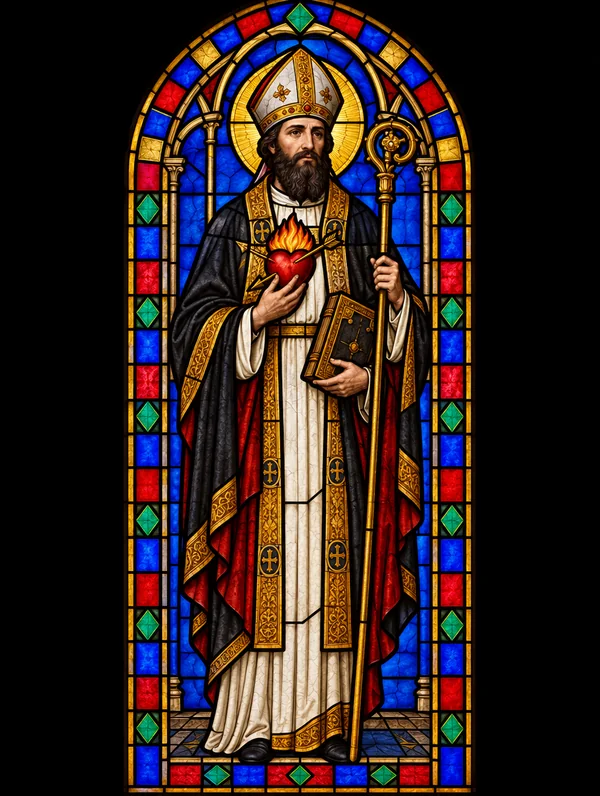
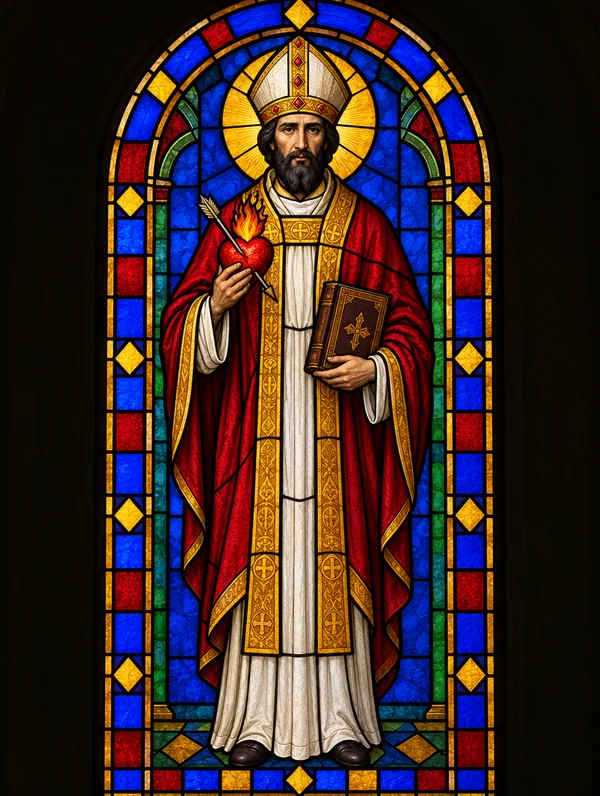
Três figuras refeitas: Agostinho e Ângela Merici com dois braços, Edith Stein com o rosto em cores
Agostinho e Ângela Merici tinham saído com três mãos; os prompts passam a
pedir exatamente dois braços e duas mãos. O rosto de Edith Stein estava
cinza como a foto de referência e foi recolorido.

O cache de imagens sobe para v2, para os aparelhos que já guardaram as
imagens receberem estas três e o São Longuinho refeito em 13/10/2026.

diff --git a/testes/offline.js b/testes/offline.js
@@ -65,7 +65,7 @@ const relata = (nome, prob) => { linhas.push(`${nome}: problemas: ${prob.length 
       }
       await roda(`document.querySelector("#foot button").click()`);
       if (!await ate(`return document.getElementById("foot").textContent.startsWith("Pronto")`, 120)) prob.push("não terminou de guardar: " + await rodape());
-      const [tem, total] = await roda(`const q = window.__quiz; return [(await (await caches.open("quiz-santos-imagens-v1")).keys()).length, q.COM_FIGURA.length + q.COM_SIMBOLOS.length]`);
+      const [tem, total] = await roda(`const q = window.__quiz; return [(await (await caches.open("quiz-santos-imagens-v2")).keys()).length, q.COM_FIGURA.length + q.COM_SIMBOLOS.length]`);
       if (tem !== total) prob.push(`guardou ${tem} de ${total} imagens`);
       if (!await ate(`return !!navigator.serviceWorker.controller`, 10)) prob.push("o sw.js não assumiu a página");
     }

diff --git a/index.html b/index.html
@@ -1441,7 +1441,7 @@ h1 { font-family: var(--display); font-weight: 400; font-size: 2rem; margin: 0; 
   });
 
   // Jogar sem internet. O sw.js serve o que estiver guardado no aparelho; aqui se guardam as imagens todas de uma vez.
-  const CACHE_IMAGENS = "quiz-santos-imagens-v1"; // o mesmo nome que está no sw.js
+  const CACHE_IMAGENS = "quiz-santos-imagens-v2"; // o mesmo nome que está no sw.js
   const todasImagens = () => [...COM_FIGURA.map(id => arquivo("santos", id)), ...COM_SIMBOLOS.map(id => arquivo("simbolos", id))];
   const offline = {
     async faltam() {

diff --git a/sw.js b/sw.js
@@ -2,7 +2,7 @@
 // Mudou favicon, ícone ou manifesto: suba o número de CASCA. Refez imagem com o mesmo nome: ponha (ou suba) o número
 // dela em REFEITAS, no index.html, e só ela é baixada de novo. Subir o de IMAGENS faz baixar todas outra vez.
 const CASCA = "quiz-santos-casca-v1";
-const IMAGENS = "quiz-santos-imagens-v1";
+const IMAGENS = "quiz-santos-imagens-v2";
 const ARQUIVOS = ["./", "manifest.webmanifest", "favicon.svg", "favicon-180.png", "icone-192.png", "icone-512.png", "icone-mascara-512.png"];
 
 self.addEventListener("install", e => e.waitUntil(

diff --git a/prompts-higgsfield.md b/prompts-higgsfield.md
@@ -38,7 +38,7 @@ Modelo `gpt_image_2_5`, qualidade `high`, resolução `1k`, proporção 3:4.
 | 18 | judas | São Judas Tadeu | Saint Jude Thaddeus, green cloak, small flame above his head, gold medallion with the face of Jesus on his chest, holding an axe | medalhão com rosto, chama, machado | a gold medallion with the face of Jesus, a small flame above it, and an axe |
 | 19 | cristovao | São Cristóvão | Saint Christopher, giant man crossing a river, carrying the Child Jesus on his shoulders, leaning on a flowering staff | Menino nos ombros, rio | the Child Jesus above river waves, with a flowering wooden staff |
 | 20 | expedito | Santo Expedito | Saint Expeditus, young Roman soldier, raising a cross, stepping on a black crow | cruz erguida, corvo sob o pé | an upright wooden cross, and a black crow below it |
-| 21 | agostinho | Santo Agostinho | Saint Augustine, bishop with mitre and black beard, holding a flaming heart pierced by an arrow, book | coração em chamas, mitra | a red flaming heart pierced by an arrow, a bishop's mitre above it, and an open book |
+| 21 | agostinho | Santo Agostinho | Saint Augustine, bishop with mitre and black beard, holding a red flaming heart pierced by an arrow in his right hand and a closed book in his left hand, anatomically correct with exactly two arms and exactly two hands, no crozier, no staff | coração em chamas, mitra | a red flaming heart pierced by an arrow, a bishop's mitre above it, and an open book |
 | 22 | inacio | Santo Inácio de Loyola | Saint Ignatius of Loyola, bald bearded priest in black cassock, holding a book, golden sun emblem with IHS monogram | sol com IHS (só aqui pode ter letras) | a golden radiant sun with the letters IHS inside it, and an open book below |
 | 23 | domingos | São Domingos | Saint Dominic, white tunic and black Dominican cape, star on his forehead, rosary, a black and white dog holding a lit torch in its mouth | cão com tocha, estrela | a black and white dog holding a lit torch in its mouth, an eight-pointed star above, and a rosary |
 | 24 | jeronimo | São Jerônimo | Saint Jerome, old bearded hermit, red cardinal's wide-brimmed hat, writing in a book, skull on the table, lion at his feet | chapéu vermelho, caveira, leão | a red cardinal's wide-brimmed hat with tassels, an open book, and a human skull |
@@ -197,7 +197,7 @@ Modelo `gpt_image_2_5`, qualidade `high`, resolução `1k`, proporção 3:4.
 | 178 | beda | São Beda | Saint Bede the Venerable, elderly Benedictine monk with white hair and tonsure, in a black habit, writing with a quill pen at a wooden desk beside a stack of old books | monge escrevendo, pilha de livros | a white quill pen, a small ink pot, and a stack of old leather books |
 | 179 | norberto | São Norberto | Saint Norbert, archbishop in a white habit with a white cope, holding a golden monstrance, a golden chalice with a small black spider on its rim beside him | hábito branco, ostensório, cálice com aranha | a golden chalice with a small black spider on its rim, and an archbishop's crozier, no host, no serpent |
 | 180 | kostka | Santo Estanislau Kostka | Saint Stanislaus Kostka, Polish teenage boy of seventeen in a black Jesuit cassock, kneeling, two small angels bringing him a white host, a white lily beside him | menino de batina, 2 anjos com hóstia, lírio | a white host held between exactly two small angels, and a white lily |
-| 181 | angelamerici | Santa Ângela Merici | Saint Angela Merici, elderly Italian woman in a dark dress and white veil, spreading her wide dark cloak over a group of little girls, holding a closed book | manto aberto sobre meninas, livro | a wide blue cloak spread open sheltering exactly three little girls, and a closed book |
+| 181 | angelamerici | Santa Ângela Merici | Saint Angela Merici, elderly Italian woman in a dark dress and white veil, her right arm extended to the side spreading her wide dark cloak over a group of little girls standing close beside her, her left hand holding a closed book against her chest, anatomically correct with exactly two arms and exactly two hands, golden halo only on the woman | manto aberto sobre meninas, livro | a wide blue cloak spread open sheltering exactly three little girls, and a closed book |
 | 182 | lwanga | São Carlos Lwanga | Saint Charles Lwanga, young African man of Uganda in a long white kanzu robe, holding a green martyr's palm, a group of young men behind him | túnica branca, palma, grupo de jovens | a rolled reed mat, red flames, and a green martyr's palm |
 | 183 | cirilometodio | Santos Cirilo e Metódio | Saints Cyril and Methodius, two Byzantine brothers side by side, each with a golden halo, the younger in a dark monk's habit holding an open book, the older a bearded bishop holding a small model of a church with onion domes | 2 irmãos, livro aberto, igrejinha de cúpulas | a small model of an Eastern church with onion domes, an open book, and a rolled scroll, no letters |
 | 184 | solano | São Francisco Solano | Saint Francis Solanus, Franciscan friar in a brown habit with a tonsure, playing a violin, a wooden crucifix hanging on his chest, South American natives listening around him | frade tocando violino, crucifixo | a violin with its bow, and a wooden crucifix |
